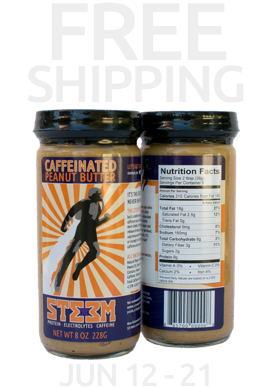
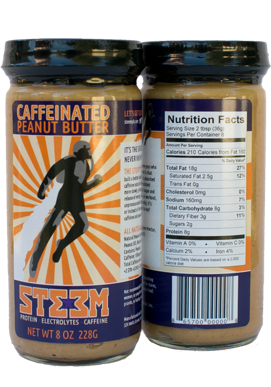
free shipping party has ended

diff --git a/assets/js/page.js b/assets/js/page.js
@@ -90,7 +90,7 @@ var productJar = purveyorProducts[productIdJar]
     productCase = purveyorProducts[productIdCase]
     productValueMeal = purveyorProducts[productIdValueMeal];
 
-var flat_rate_shipping_cost = 0
+var flat_rate_shipping_cost = 7.5
     per_jar_cost = productJar['cost'] / 100.0
     case_cost = productCase['cost'] / 100.0;
     meal_cost = productValueMeal['cost'] / 100.0;
@@ -207,6 +207,7 @@ $(document).ready(function(){
                 context.usd = true;
                 context.shirtsUnavailable = shirtsUnavailable;
                 context.product_jar_cost = per_jar_cost;
+                context.flat_rate_shipping_cost = flat_rate_shipping_cost;
                 context.product_meal_cost = meal_cost;
                 $('#cta-main').html( store_template(context) );
 
@@ -293,7 +294,7 @@ $(document).ready(function(){
                                 });
                                 $("#jar-details").fadeOut('fast', function(){
                                     $("#jar-price").html('<strong>$' + case_cost + ' </strong> <br /> 12 8oz Jars');
-                                    $("#jar-shipping").html('+ <strong>FREE</strong> Shipping to Contiguous US');
+                                    $("#jar-shipping").html('+ <strong>FREE</strong> flat-rate Shipping to Contiguous US');
                                     $("#jar-description").html('A whole case of delicious peanut butter. Put it in your face and do twelve times as much stuff!');
                                     $(this).fadeIn(); 
                                 });

diff --git a/checkout.php b/checkout.php
@@ -27,7 +27,7 @@
             $dimensions = NULL;
         }else{
             // assume jars
-            $shipping = 0;
+            $shipping = 7.5;
             $dimensions = NULL;
         }
 
